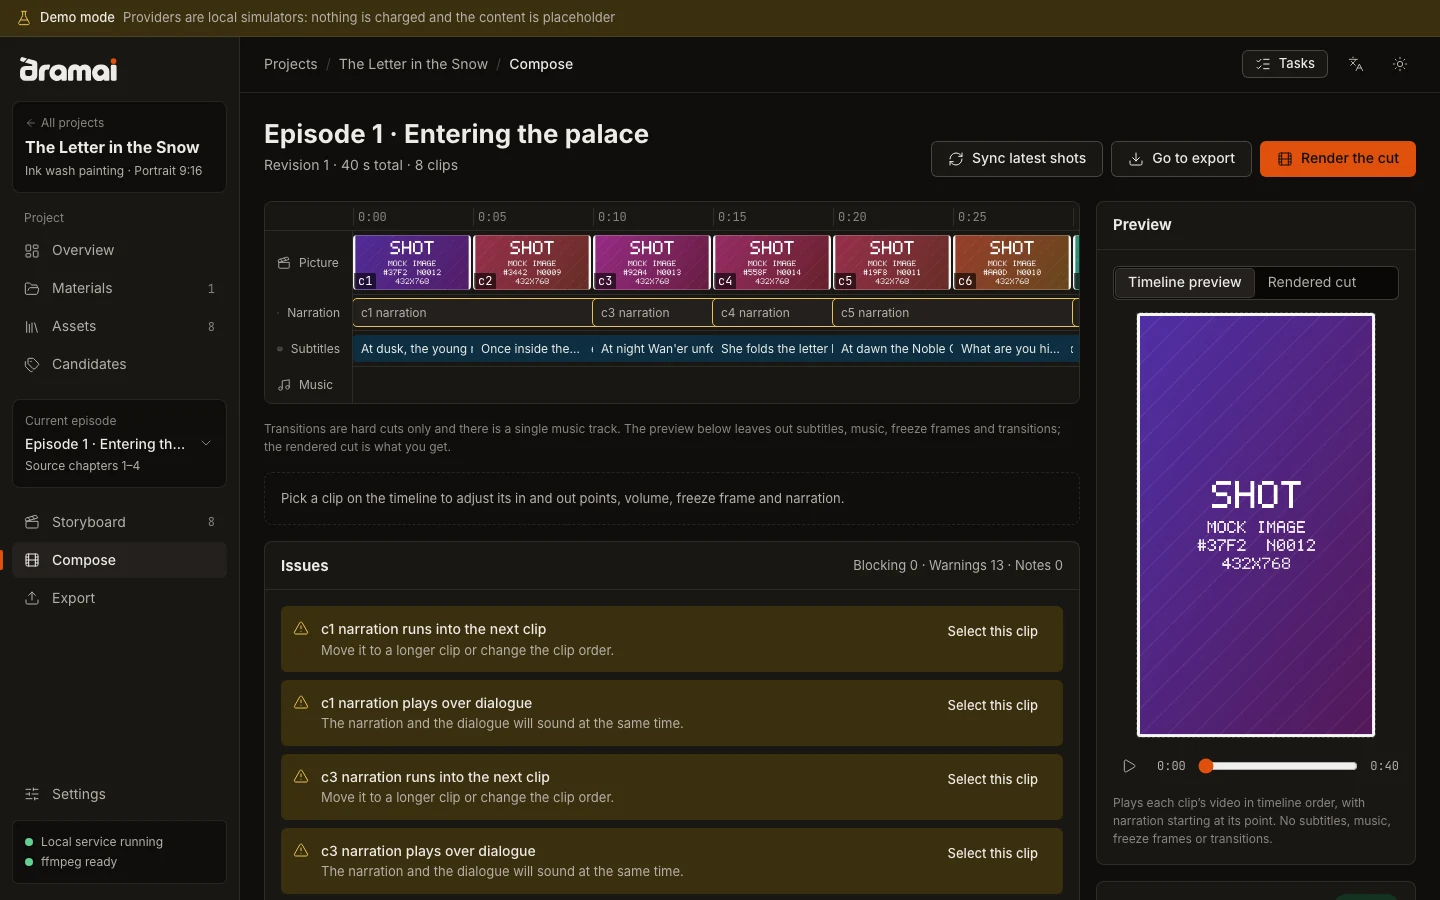
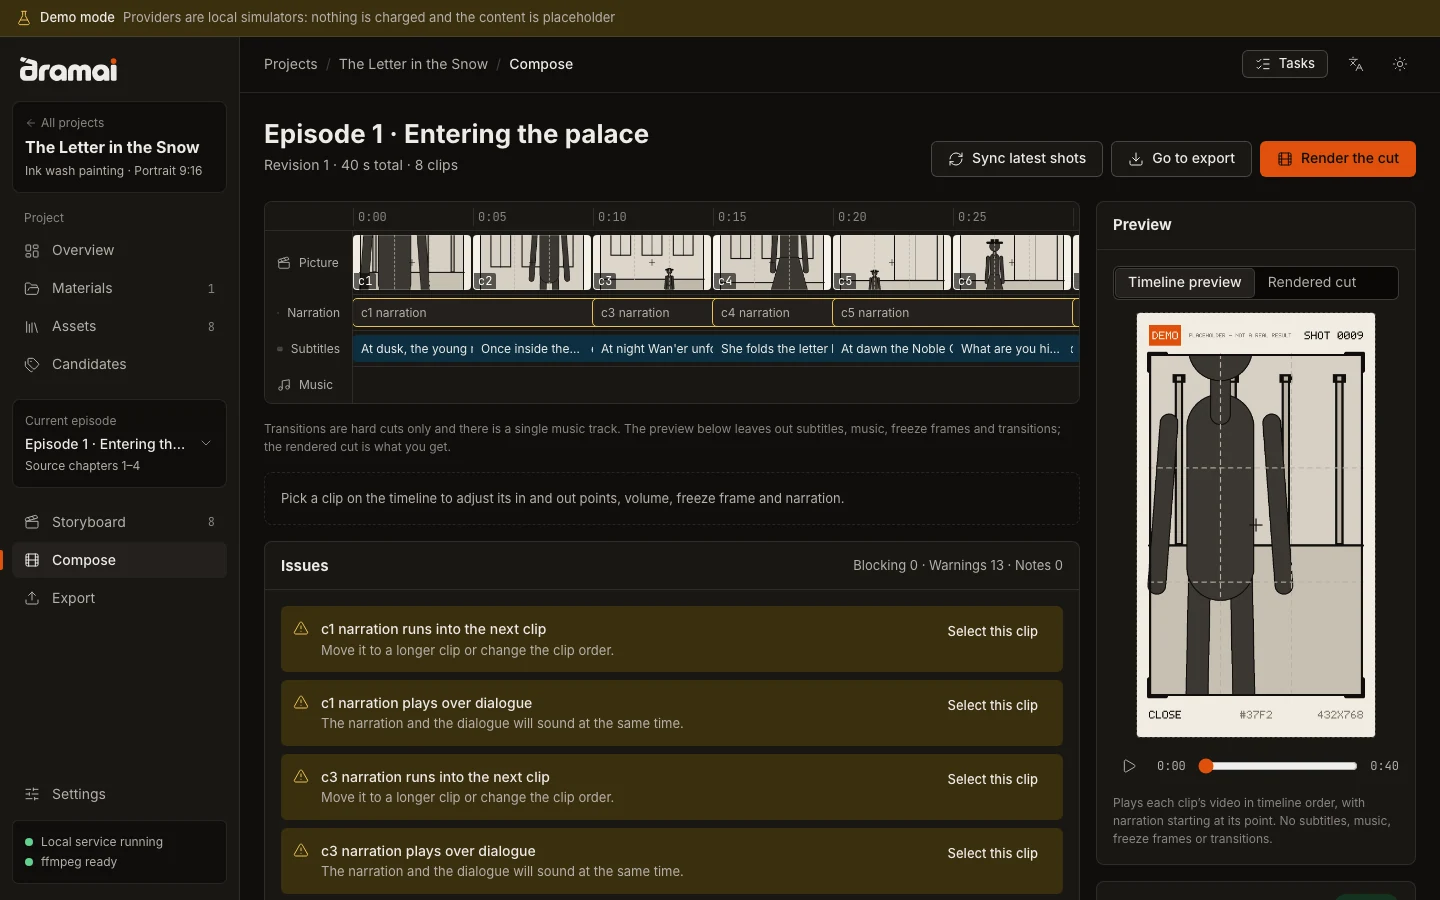
docs(readme): retake screenshots with the new demo placeholders, richer task panel, update demo command and status

Changed region(s): [[0.7812, 0.3422, 0.9688, 0.84], [0.2188, 0.2489, 0.75, 0.3422]]

diff --git a/README.md b/README.md
@@ -24,12 +24,12 @@ It is for people who make serialised short dramas and want to keep control of th
     <img src="./docs/assets/readme/en/storyboard-light.webp" alt="The storyboard page: shots grouped by scene, each with its image, video, narration, prompt and the assets it uses" width="100%" />
   </picture>
   <br />
-  <sub>The storyboard of a small demo project. The images and video are placeholders made by demo mode.</sub>
+  <sub>The storyboard of a small demo project. The pictures are placeholder sketches made by demo mode, not generated art.</sub>
 </p>
 
 ## Try it in a minute, with no API key
 
-Demo mode runs the whole studio against simulated providers on your machine: no account, no key, no cost. What it generates is placeholder content (numbered colour blocks and test footage), so it shows how the workflow behaves, not what real models produce.
+Demo mode runs the whole studio against simulated providers on your machine: no account, no key, no cost. What it generates is placeholder content: storyboard-style sketches of a figure in a frame, marked DEMO, and short clips built from them. It shows how the workflow behaves, not what real models produce.
 
 You need [Node.js](https://nodejs.org) 22.22.2 or newer, [pnpm](https://pnpm.io) 9 and [ffmpeg](https://ffmpeg.org) on your `PATH`.
 
@@ -38,7 +38,7 @@ git clone https://github.com/hyyyyyyz/dramai.git
 cd dramai
 pnpm install
 pnpm build
-pnpm demo --static-dir packages/workspace/dist
+pnpm demo
 ```
 
 Open <http://127.0.0.1:8787>. Create a project, upload a short story, plan episodes, break them into shots, confirm the characters and locations, then generate images and video and compose the cut. The simulated language model only understands Chinese text, so use a Chinese story. Demo data lives in `~/.dramai-demo`, separate from your real data; add `--fresh` to start over.
@@ -83,7 +83,7 @@ In words: source text → episodes → scenes → shots → shot images → shot
   <img src="./docs/assets/readme/en/assets-light.webp" alt="The asset library with character reference sheets" width="100%" />
 </picture>
 
-**Asset library.** Characters, locations, props and costumes. The sheets shown here are placeholders from demo mode.
+**Asset library.** Characters, locations, props and costumes. The three-view sheets shown here are placeholder sketches from demo mode.
 
 <picture>
   <source media="(prefers-color-scheme: dark)" srcset="./docs/assets/readme/en/confirm-dark.webp" />
@@ -101,10 +101,10 @@ In words: source text → episodes → scenes → shots → shot images → shot
 
 <picture>
   <source media="(prefers-color-scheme: dark)" srcset="./docs/assets/readme/en/tasks-dark.webp" />
-  <img src="./docs/assets/readme/en/tasks-light.webp" alt="The storyboard with the task panel open, showing two video tasks in progress" width="100%" />
+  <img src="./docs/assets/readme/en/tasks-light.webp" alt="The storyboard with the task panel open: one task needing action, three running and three queued" width="100%" />
 </picture>
 
-**Task panel.** Running, queued and finished tasks. Tasks already submitted to a provider cannot be cancelled and are billed as usual.
+**Task panel.** Tasks that need action, running tasks and the queue, with the storyboard updating beside it. The task at the top was cut off before the provider confirmed it: dramai says so, asks you to check the provider's dashboard, and never resubmits it on its own. Tasks already submitted to a provider cannot be cancelled and are billed as usual.
 
 </details>
 
@@ -155,13 +155,13 @@ The desktop app keeps your data in your user folder (for example `~/Library/Appl
 
 - The whole workflow runs end to end in demo mode: upload a text, plan episodes, break down shots, confirm characters and locations, generate images and video, compose, export.
 - Browser tests (Playwright) cover that path, a failed task being resumed, the English interface and keyboard-only use.
-- The desktop app passes its checks on macOS.
+- The desktop app has been run on macOS.
 
 **Not verified**
 
 - Any real AI provider. The four provider presets carry model ids and prices last checked in May 2026.
-- The desktop app on Windows and Linux. On Linux, CI builds and installs it; on Windows it builds and installs, but the installed app has not yet passed the launch check in CI. Treat both as untested.
-- CI on all three systems is still being fixed.
+- The desktop app on Windows and Linux. CI builds it and runs an install self-check on both, but nobody has used it on a real Linux or Windows desktop yet.
+- CI runs on Linux, macOS and Windows; it was not yet fully green when this was written.
 - API keys are not encrypted in the WebUI.
 
 **Not released**

diff --git a/README_CN.md b/README_CN.md
@@ -24,12 +24,12 @@ dramai 是一个开源的 AI 短剧工作室，在你自己的电脑上运行。
     <img src="./docs/assets/readme/zh/storyboard-light.webp" alt="分镜页：镜头按场分组，每个镜头带有图片、视频、旁白、提示词和引用的资产" width="100%" />
   </picture>
   <br />
-  <sub>一个小型演示项目的分镜页。图片和视频是演示模式生成的占位内容。</sub>
+  <sub>一个小型演示项目的分镜页。画面是演示模式生成的占位草图，不是生成出来的作品。</sub>
 </p>
 
 ## 一分钟试用，不需要 API Key
 
-演示模式会在你的电脑上用模拟的服务商跑完整个工作室：不用注册账号，不用 Key，不产生费用。它生成的是占位内容（带编号的色块和测试画面），用来展示工作流怎么运转，而不是真实模型的效果。
+演示模式会在你的电脑上用模拟的服务商跑完整个工作室：不用注册账号，不用 Key，不产生费用。它生成的是占位内容：画框里一个人形的分镜草图，标着 DEMO，再用它们做成的短片段。它用来展示工作流怎么运转，而不是真实模型的效果。
 
 你需要 [Node.js](https://nodejs.org) 22.22.2 或更新版本、[pnpm](https://pnpm.io) 9，以及在 `PATH` 里能找到的 [ffmpeg](https://ffmpeg.org)。
 
@@ -38,7 +38,7 @@ git clone https://github.com/hyyyyyyz/dramai.git
 cd dramai
 pnpm install
 pnpm build
-pnpm demo --static-dir packages/workspace/dist
+pnpm demo
 ```
 
 打开 <http://127.0.0.1:8787>。新建一个项目，上传一个短篇故事，规划分集，拆分镜头，确认角色和地点，然后生成图片和视频，最后合成成片。演示用的数据放在 `~/.dramai-demo`，和你的正式数据分开；加上 `--fresh` 可以清空重来。
@@ -83,7 +83,7 @@ pnpm demo --static-dir packages/workspace/dist
   <img src="./docs/assets/readme/zh/assets-light.webp" alt="资产库：角色设定图" width="100%" />
 </picture>
 
-**资产库。** 角色、地点、道具和服装。这里的设定图是演示模式的占位图。
+**资产库。** 角色、地点、道具和服装。这里的三视图设定图是演示模式的占位草图。
 
 <picture>
   <source media="(prefers-color-scheme: dark)" srcset="./docs/assets/readme/zh/confirm-dark.webp" />
@@ -101,10 +101,10 @@ pnpm demo --static-dir packages/workspace/dist
 
 <picture>
   <source media="(prefers-color-scheme: dark)" srcset="./docs/assets/readme/zh/tasks-dark.webp" />
-  <img src="./docs/assets/readme/zh/tasks-light.webp" alt="打开任务面板的分镜页，显示两个进行中的视频任务" width="100%" />
+  <img src="./docs/assets/readme/zh/tasks-light.webp" alt="打开任务面板的分镜页：一个需要处理、三个进行中、三个排队" width="100%" />
 </picture>
 
-**任务面板。** 进行中、排队中和已完成的任务。已经提交给服务商的任务不能取消，照常计费。
+**任务面板。** 需要处理的任务、进行中的任务和排队的任务，分镜页在旁边同步更新。最上面那个任务在服务商确认之前就断开了：dramai 会如实说明，请你去服务商后台核对，并且绝不会自己重新提交。已经提交给服务商的任务不能取消，照常计费。
 
 </details>
 
@@ -155,13 +155,13 @@ pnpm webui --port 9000 --data-dir ~/dramai-data --no-open
 
 - 整条流程在演示模式下端到端可用：上传文本、规划分集、拆分镜头、确认角色和地点、生成图片和视频、合成、导出。
 - 浏览器测试（Playwright）覆盖了这条路径、失败任务的恢复、英文界面和纯键盘操作。
-- 桌面端在 macOS 上通过了自己的检查。
+- 桌面端在 macOS 上实机运行过。
 
 **还没验证的**
 
 - 任何真实的 AI 服务商。四个服务商预设里的模型名和价格，最后核对于 2026 年 5 月。
-- 桌面端在 Windows 和 Linux 上的表现。Linux 上 CI 能编译并安装它；Windows 上能编译和安装，但安装后的应用还没有通过 CI 的启动检查。请把这两个系统都当作未经测试。
-- 三个系统上的 CI 仍在修复中。
+- 桌面端在 Windows 和 Linux 上的表现。CI 在这两个系统上编译了它，并跑了安装自检，但还没有人在真实的 Linux 或 Windows 桌面环境里操作过。
+- CI 在 Linux、macOS 和 Windows 上都在跑；写这份说明时还没有全部通过。
 - WebUI 下 API Key 没有加密。
 
 **还没发布的**
